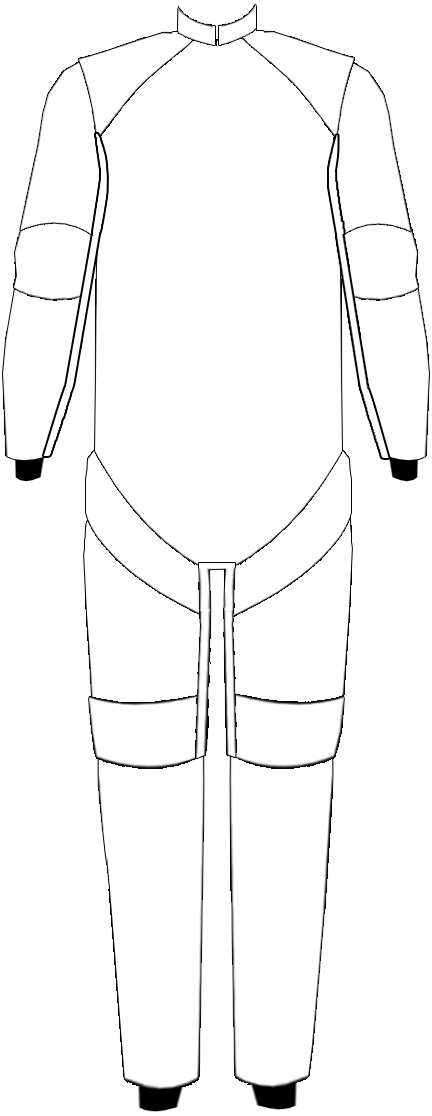
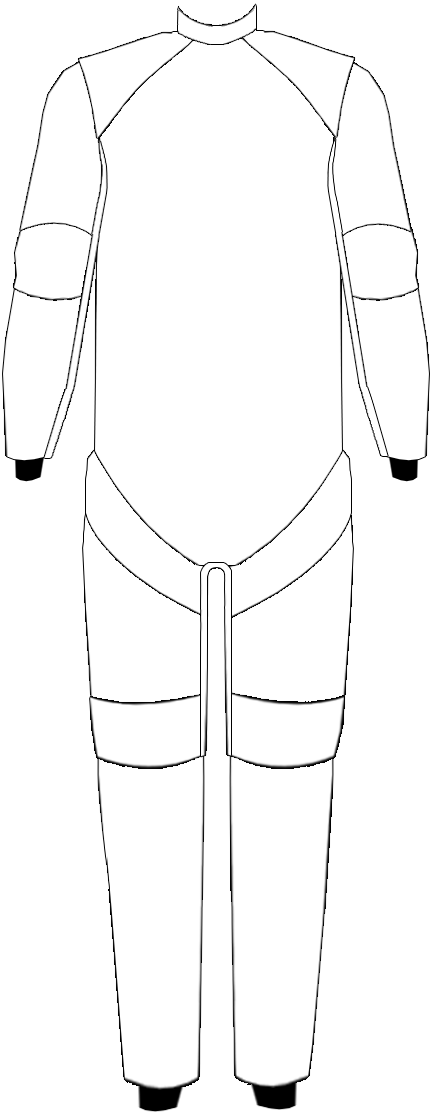
picky

diff --git a/Alt Designs/one/index.html b/Alt Designs/one/index.html
@@ -33,17 +33,65 @@
               </div>
               <div id="color-picker-dorpdown-left-arm" class="picker-dropdown left-armdropdown">
                 <p class="picker-dropdown-p">Select Color</p>
-                <div onclick="colorPickerSelect('la-blue')" class="color-single color-single-dropdown">
-                  <div class="color-single-display" style="background: lightblue"></div>
-                  <p>Blue</p>
+                <div onclick="colorPickerSelect('la-aqua')" class="color-single color-single-dropdown">
+                  <div class="color-single-display" style="background: aqua"></div>
+                  <p>Auqa</p>
                 </div>
                 <div onclick="colorPickerSelect('la-green')" class="color-single color-single-dropdown">
-                  <div class="color-single-display" style="background: lightgreen"></div>
-                  <p>Green</p>
+                  <div class="color-single-display" style="background: #53ef4b"></div>
+                  <p>Neon Green</p>
                 </div>
-                <div onclick="colorPickerSelect('la-red')" class="color-single color-single-dropdown">
-                  <div class="color-single-display" style="background: red"></div>
-                  <p>Red</p>
+                <div onclick="colorPickerSelect('la-pink')" class="color-single color-single-dropdown">
+                  <div class="color-single-display" style="background: pink"></div>
+                  <p>Hot Pink</p>
+                </div>
+                <div onclick="colorPickerSelect('la-yellow')" class="color-single color-single-dropdown">
+                  <div class="color-single-display" style="background: yellow"></div>
+                  <p>Yellow</p>
+                </div>
+                <div onclick="colorPickerSelect('la-maroon')" class="color-single color-single-dropdown">
+                  <div class="color-single-display" style="background: maroon"></div>
+                  <p>Maroon</p>
+                </div>
+                <div onclick="colorPickerSelect('la-grey')" class="color-single color-single-dropdown">
+                  <div class="color-single-display" style="background: darkGrey"></div>
+                  <p>Grey</p>
+                </div>
+                <div onclick="colorPickerSelect('la-navy')" class="color-single color-single-dropdown">
+                  <div class="color-single-display" style="background: Navy"></div>
+                  <p>Navy</p>
+                </div>
+                <div onclick="colorPickerSelect('la-purple')" class="color-single color-single-dropdown">
+                  <div class="color-single-display" style="background: Purple"></div>
+                  <p>Purple</p>
+                </div>
+                <div onclick="colorPickerSelect('la-darkGreen')" class="color-single color-single-dropdown">
+                  <div class="color-single-display" style="background: DarkGreen"></div>
+                  <p>Dark Green</p>
+                </div>
+                <div onclick="colorPickerSelect('la-darkGrey')" class="color-single color-single-dropdown">
+                  <div class="color-single-display" style="background: #393939"></div>
+                  <p>Dark Grey</p>
+                </div>
+                <div onclick="colorPickerSelect('la-blue')" class="color-single color-single-dropdown">
+                  <div class="color-single-display" style="background: Blue"></div>
+                  <p>Blue</p>
+                </div>
+                <div onclick="colorPickerSelect('la-lime')" class="color-single color-single-dropdown">
+                  <div class="color-single-display" style="background: #a2e978"></div>
+                  <p>Lime</p>
+                </div>
+                <div onclick="colorPickerSelect('la-white')" class="color-single color-single-dropdown">
+                  <div class="color-single-display" style="background: White"></div>
+                  <p>White</p>
+                </div>
+                <div onclick="colorPickerSelect('la-black')" class="color-single color-single-dropdown">
+                  <div class="color-single-display" style="background: Black"></div>
+                  <p>Black</p>
+                </div>
+                <div onclick="colorPickerSelect('la-teal')" class="color-single color-single-dropdown">
+                  <div class="color-single-display" style="background: Teal"></div>
+                  <p>Teal</p>
                 </div>
               </div>
             </div>
@@ -56,17 +104,65 @@
               </div>
               <div id="color-picker-dorpdown-right-upper-arm" class="picker-dropdown left-armdropdown">
                 <p class="picker-dropdown-p">Select Color</p>
-                <div onclick="colorPickerSelect('rua-blue')" class="color-single color-single-dropdown">
-                  <div class="color-single-display" style="background: lightblue"></div>
-                  <p>Blue</p>
+                <div onclick="colorPickerSelect('la-aqua')" class="color-single color-single-dropdown">
+                  <div class="color-single-display" style="background: aqua"></div>
+                  <p>Auqa</p>
                 </div>
                 <div onclick="colorPickerSelect('rua-green')" class="color-single color-single-dropdown">
-                  <div class="color-single-display" style="background: lightgreen"></div>
-                  <p>Green</p>
+                  <div class="color-single-display" style="background: #53ef4b"></div>
+                  <p>Neon Green</p>
                 </div>
-                <div onclick="colorPickerSelect('rua-red')" class="color-single color-single-dropdown">
-                  <div class="color-single-display" style="background: red"></div>
-                  <p>Red</p>
+                <div onclick="colorPickerSelect('rua-pink')" class="color-single color-single-dropdown">
+                  <div class="color-single-display" style="background: pink"></div>
+                  <p>Hot Pink</p>
+                </div>
+                <div onclick="colorPickerSelect('rua-yellow')" class="color-single color-single-dropdown">
+                  <div class="color-single-display" style="background: yellow"></div>
+                  <p>Yellow</p>
+                </div>
+                <div onclick="colorPickerSelect('rua-maroon')" class="color-single color-single-dropdown">
+                  <div class="color-single-display" style="background: maroon"></div>
+                  <p>Maroon</p>
+                </div>
+                <div onclick="colorPickerSelect('rua-grey')" class="color-single color-single-dropdown">
+                  <div class="color-single-display" style="background: darkGrey"></div>
+                  <p>Grey</p>
+                </div>
+                <div onclick="colorPickerSelect('rua-navy')" class="color-single color-single-dropdown">
+                  <div class="color-single-display" style="background: Navy"></div>
+                  <p>Navy</p>
+                </div>
+                <div onclick="colorPickerSelect('rua-purple')" class="color-single color-single-dropdown">
+                  <div class="color-single-display" style="background: Purple"></div>
+                  <p>Purple</p>
+                </div>
+                <div onclick="colorPickerSelect('rua-darkGreen')" class="color-single color-single-dropdown">
+                  <div class="color-single-display" style="background: DarkGreen"></div>
+                  <p>Dark Green</p>
+                </div>
+                <div onclick="colorPickerSelect('rua-darkGrey')" class="color-single color-single-dropdown">
+                  <div class="color-single-display" style="background: #393939"></div>
+                  <p>Dark Grey</p>
+                </div>
+                <div onclick="colorPickerSelect('rua-blue')" class="color-single color-single-dropdown">
+                  <div class="color-single-display" style="background: Blue"></div>
+                  <p>Blue</p>
+                </div>
+                <div onclick="colorPickerSelect('rua-lime')" class="color-single color-single-dropdown">
+                  <div class="color-single-display" style="background: #a2e978"></div>
+                  <p>Lime</p>
+                </div>
+                <div onclick="colorPickerSelect('rua-white')" class="color-single color-single-dropdown">
+                  <div class="color-single-display" style="background: White"></div>
+                  <p>White</p>
+                </div>
+                <div onclick="colorPickerSelect('rua-black')" class="color-single color-single-dropdown">
+                  <div class="color-single-display" style="background: Black"></div>
+                  <p>Black</p>
+                </div>
+                <div onclick="colorPickerSelect('rua-teal')" class="color-single color-single-dropdown">
+                  <div class="color-single-display" style="background: Teal"></div>
+                  <p>Teal</p>
                 </div>
               </div>
             </div>
@@ -74,13 +170,20 @@
         </section>
         <section class="suit-display">
           <div class="suit-display-front suit-display-img">
+            <!-- Left Upper Arm -->
             <section class="suit-images">
               <div id="upper-left-arm-svg-wrap" class"single-suit-image">
                 <svg style="fill:none;"id="upper-left-arm-svg" data-name="Layer 1" xmlns="http://www.w3.org/2000/svg" viewBox="0 0 81.83 178.26"><title>left-upper-arm</title><g id="_0jEfYJ.tif" data-name="0jEfYJ.tif"><path d="M-105,462v3c-23.56-10.82-46.57-11.57-68.65,3.84-3.9,2.73-4.81.56-5.36-2.86-1.65-10.19-3.56-20.34-5-30.55-2.28-15.79-5.34-31.63,1-47.26a7.24,7.24,0,0,0,.46-2.45c.62-18.42,5.21-36.22,8.46-54.22,2-10.81,4.14-21.59,6.36-32.35.39-1.87.53-5.53,3.56-3.94,6.28,3.29,13.33,5.75,17.92,11.49,10.58,13.22,17.87,27.95,19.9,45,3.46,29.15,10.56,57.63,16.17,86.38C-108.63,446.11-106.74,454-105,462Z" transform="translate(186.83 -294.82)"/></g>
                 </svg>
               </div>
+              <!-- Right Upper Arm -->
               <div id="upper-right-arm-svg-wrap" class"single-suit-image">
                 <svg  style="fill:none;" id="upper-right-arm-svg" data-name="Layer 1" xmlns="http://www.w3.org/2000/svg" viewBox="0 0 81.83 178.26"><title>left-upper-arm</title><g id="_0jEfYJ.tif" data-name="0jEfYJ.tif"><path d="M-58,376v5a32.69,32.69,0,0,0-.76,3.87C-60.35,405.14-64,425.1-68,445h-2c-13.77-11.29-29.55-15.46-47.18-13.85-9.36.86-17.92,4.41-26.82,6.85v-5c1.42-6.66,2.95-13.29,4.25-20,5.21-26.57,12.38-52.75,16.07-79.6,2.57-18.7,6.86-36.5,19.06-51.59a27.57,27.57,0,0,1,7.59-7c5-2.89,10-5.88,15-8.82h3c2.11,10.88,4,21.81,6.38,32.64,3.52,16,6.32,32.13,8.92,48.29C-62.12,356.69-62.55,366.83-58,376Z" transform="translate(144 -266)"/></g>
+                </svg>
+              </div>
+              <!-- Sholders -->
+              <div id="sholders-svg-wrap" class"single-suit-image">
+                <svg id="sholders-svg" "data-name="Layer 1" xmlns="http://www.w3.org/2000/svg" viewBox="0 0 277.07 114"><title>sholders</title><g id="ADYoaE.tif"><path d="M-3,315c4.56,3.32,9,6.85,13.74,9.89,3.1,2,3.35,3.73.75,6.11-4,3.7-7.92,7.59-12.15,11.05-13.47,11-27.33,21.59-39.57,34-10.71,10.9-20.13,22.9-29,35.29-4.36,6.07-9.09,11.8-13.75,17.62h-3c-3.2-15.11-4-30.63-8.16-45.6-2.87-10.25-5.63-20.53-9.12-30.59-1-2.88-1.16-5.08,2.64-6,18.92-4.62,37.11-11.58,55.62-17.49,10.66-3.4,21.19-8,32.81-7.74,4.45.12,7.57-1.77,8.21-6.58Z" transform="translate(103.89 -315)"/><path d="M173.13,349.35c-1.93,6.4-3.6,12-5.3,17.53-5.29,17.24-8.41,34.91-10.67,52.76a25.34,25.34,0,0,1-.53,2.95c-.43,1.71,0,4.1-2.13,4.71-2.33.67-3.44-1.48-4.66-3-10.1-12.74-18.85-26.48-29.31-39C109.58,372.23,96.84,361.11,84,350c-7.41-6.4-15.43-12.13-22.07-19.44-2.47-2.73-3.46-4.74.51-6.9a64.55,64.55,0,0,0,5.66-4.09c2.66-1.85,4.87-5,8.46-.45,1.27,1.62,5.32,1.46,8.1,1.43,11.29-.13,21.43,4.52,31.76,7.88,17.7,5.75,35,12.84,53.08,17.33C171.92,346.39,173.49,347.42,173.13,349.35Z" transform="translate(103.89 -315)"/></g>
                 </svg>
               </div>
             </section>
@@ -92,7 +195,7 @@
             <h2 class="suit-titles">Suit Back</h2>
           </div>
           <div class="builder-btns">
-            <div class="builder-btn" onclick="saveSuitOptions()">Save and Continue</div>
+            <div class="builder-btn" onclick="test()">Save and Continue</div>
             <div class="builder-btn">Reset Designer</div>
           </div>
         </section>

diff --git a/Alt Designs/one/css.css b/Alt Designs/one/css.css
@@ -272,16 +272,16 @@ h1{
 /*Dropdowns*/
 
 .picker-dropdown{
-  position: absolute;
+  position: fixed;
   display: flex;
   flex-direction: column;
   align-items: center;
   display: none;
-  width: 102%;
+  width: 21%;
   border: 1px solid black;
   border-radius: 3px;
-  top: -1.4%;
-  left: -1.4%;
+  top:15.45%;
+  left: 3.2%;
   height: auto;
   z-index: 1;
   background: white;
@@ -291,7 +291,7 @@ h1{
 .color-single-dropdown{
   width: 90%;
   z-index: 8;
-  margin: 5px;
+  margin: 3px;
 }
 .picker-dropdown-p{
   margin: 5px !important;
@@ -329,6 +329,12 @@ h1{
   position: absolute;
   top: 53px;
   left: 55.7px;
+}
+#sholders-svg{
+  width: 91.9px;
+  position: absolute;
+  top: 43px;
+  left: 76.7px;
 }
 .suit-titles{
   position: absolute;

diff --git a/Alt Designs/one/js.js b/Alt Designs/one/js.js
@@ -80,15 +80,16 @@ function colorPickerSelect(color){
     dropdownCtrl = true
   }
 }
-// Save suit options - make sure you require them to watch the video and add measurements before 
+// Save suit options - make sure you require them to watch the video and add measurements before
 
 
 
 
 
 //testing
-function testSVG(){
-  alert("Acknowledge to modify object color.");
-  var object = document.getElementById("right-upper-arm-SVG");
-  object.setAttribute("fill", "green");
+function test(){
+  let value = {}
+  value.rightArm = "right arm " + document.getElementById("right-upper-arm-title").innerHTML
+  value.leftArm = "right arm " + document.getElementById("left-upper-arm-title").innerHTML
+  console.log(value)
 }
